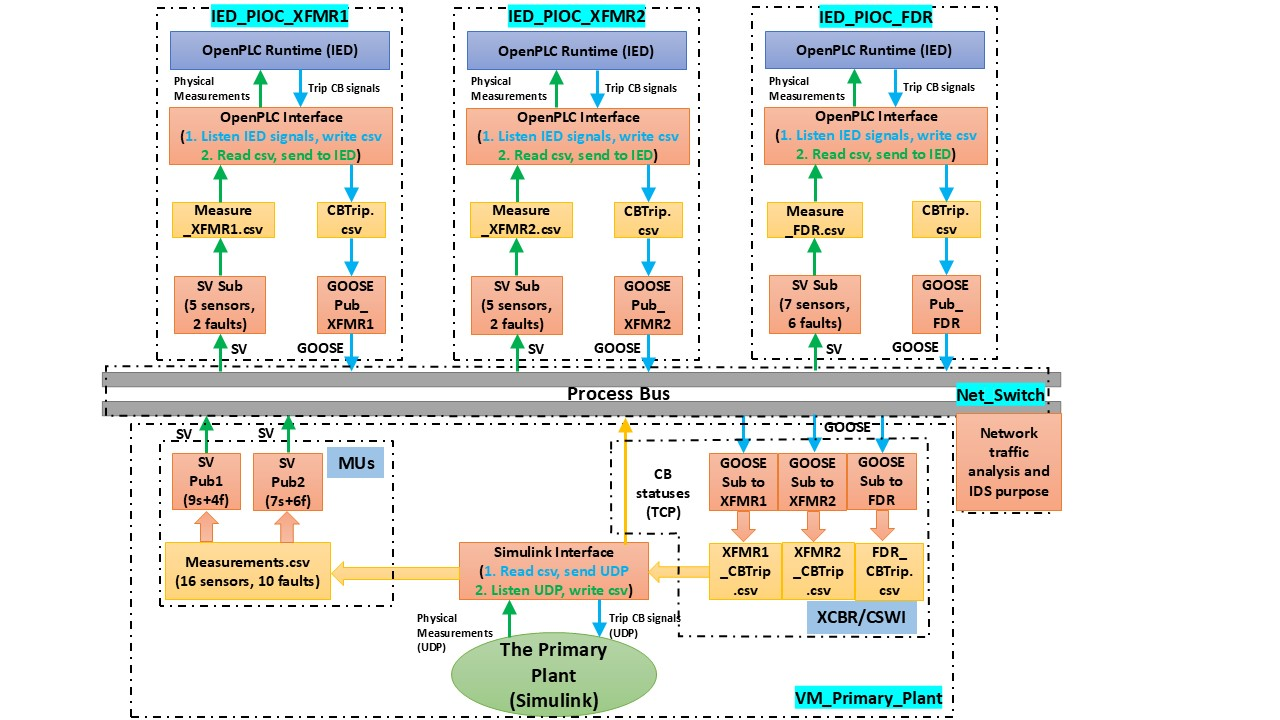
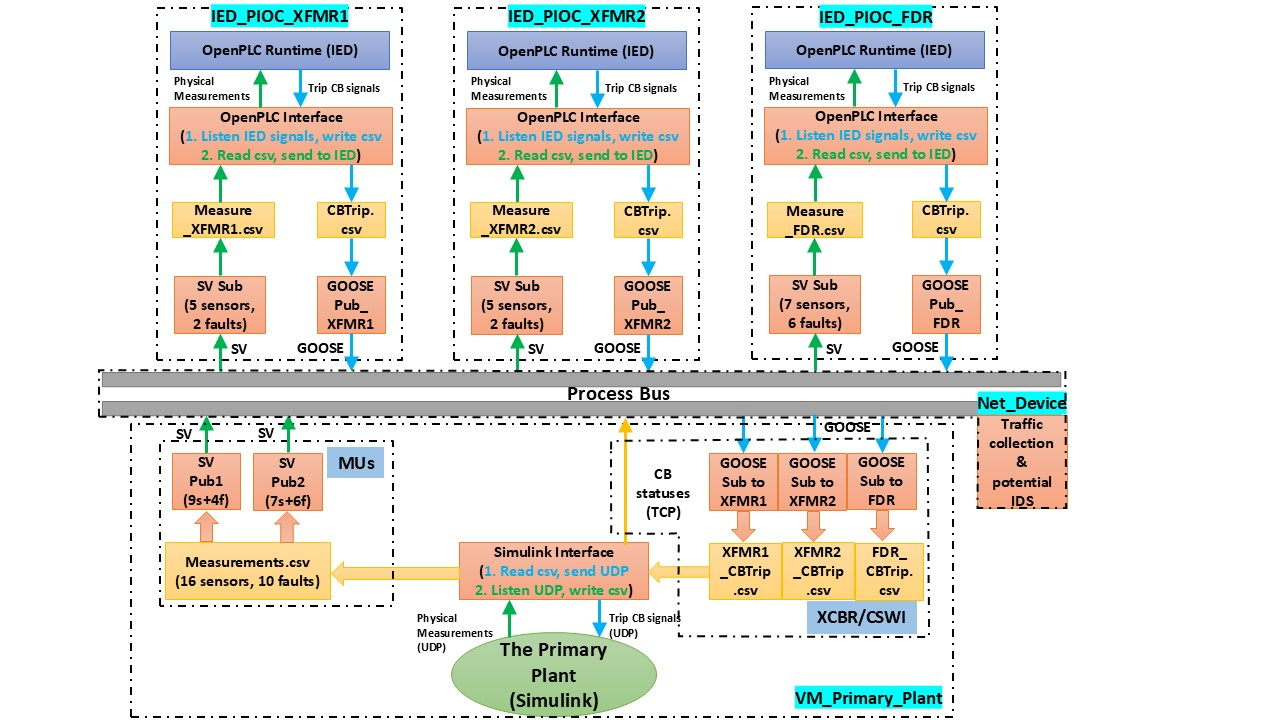
Update datasets

Changed region(s): [[0.4375, 0.4889, 0.8438, 0.7333], [0.0938, 0.4889, 0.4062, 0.5194], [0.0938, 0.55, 0.125, 0.5806]]

diff --git a/README.md b/README.md
@@ -22,7 +22,7 @@ The testbed runs on an Oracle VirtualBox with five virtual machines (VMs). One V
 - IED_PIOC_XFMR2: the overcurrent protection IED/relays for transformer2
 - IED_PIOC_FDR: the overcurrent protection IED/relays for feeders
 - IED_HMI: the human-machine interface for controlling IEDs
-- Network device: the network device used for both the process bus and stations bus, as well as for data collection and intrusion detection purposes
+- Net_Device: the network device used for both the process bus and stations bus, as well as for data collection and intrusion detection purposes
 
 > Port summary.xlsx: indicates all the UDP port numbers for communication between Simulink and OpenPLC
 
